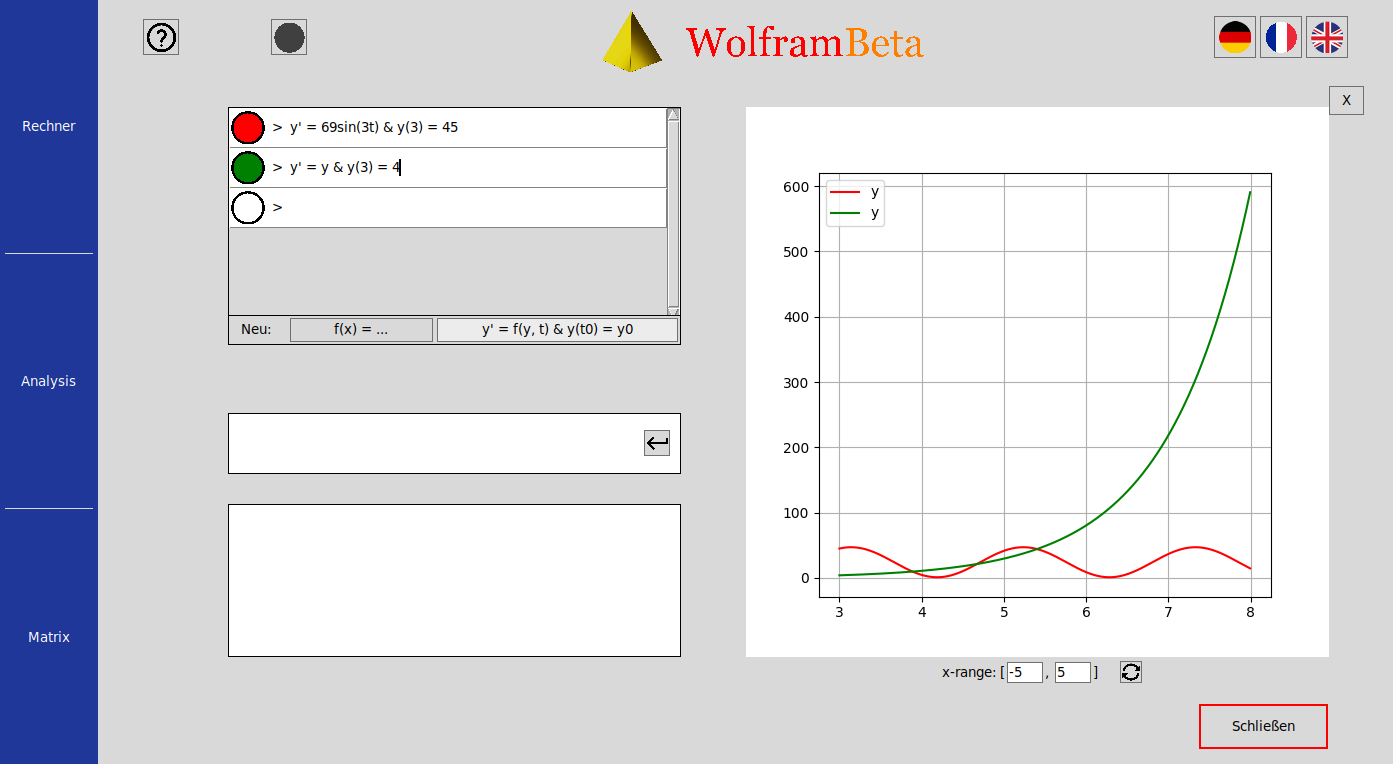
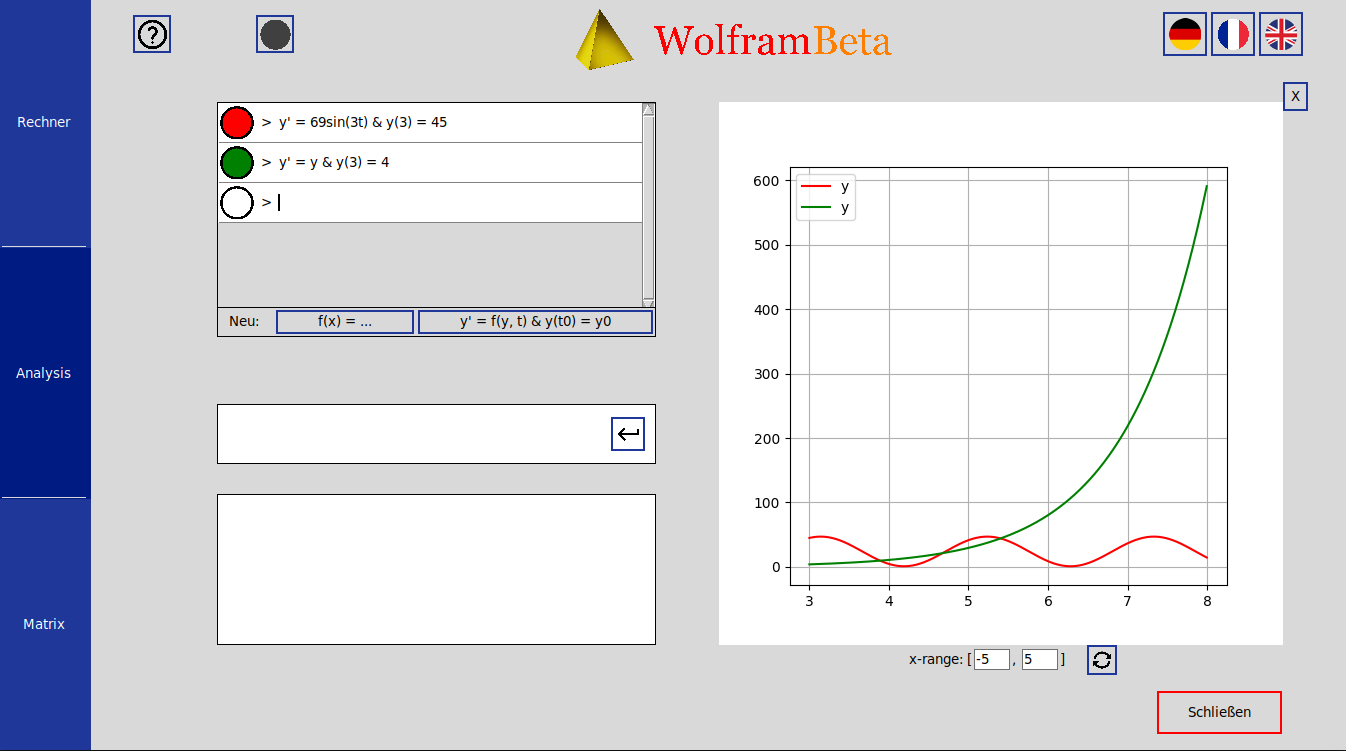
pb im parser, neue bilder mit design

diff --git a/website/Algebra_de.html b/website/Algebra_de.html
@@ -74,7 +74,7 @@
             </tr>
          </table>
 
-         <img src="screens/rechner_funktionen.png" style="display:block;margin:40px auto;width:60%;height:auto;" alt="" />
+         <img src="screens/alg_func.png" style="display:block;margin:40px auto;width:60%;height:auto;" alt="" />
 
          <h3>Differentialoperatoren:</h3>
 
@@ -102,7 +102,7 @@
             </tr>
          </table>
 
-         <img src="screens/rechner_int.png" style="display:block;margin:40px auto;width:60%;height:auto;" alt="" />
+         <img src="screens/alg_int.png" style="display:block;margin:40px auto;width:60%;height:auto;" alt="" />
 
 
          <h3>Zahlentheorie:</h3>
@@ -154,7 +154,7 @@
                <td>partition(23)</td>
          </table>
 
-         <img src="screens/rechner_zt.png" style="display:block;margin:40px auto;width:60%;height:auto;" alt="" />
+         <img src="screens/alg_zt.png" style="display:block;margin:40px auto;width:60%;height:auto;" alt="" />
 
 
          <h3>Gleichungen und Gleichheit</h3>
@@ -177,7 +177,7 @@
             </tr>
          </table>
 
-         <img src="screens/rechner_gleichung.png" style="display:block;margin:40px auto;width:60%;height:auto;" alt="" />
+         <img src="screens/alg_gleich.png" style="display:block;margin:40px auto;width:60%;height:auto;" alt="" />
 
 
       </div>

diff --git a/website/Algebra_fr.html b/website/Algebra_fr.html
@@ -75,7 +75,7 @@
             </tr>
          </table>
 
-         <img src="screens/rechner_funktionen.png" style="display:block;margin:40px auto;width:60%;height:auto;" alt="" />
+         <img src="screens/alg_func.png" style="display:block;margin:40px auto;width:60%;height:auto;" alt="" />
 
          <h3>Opérateurs d'analyse:</h3>
 
@@ -103,7 +103,7 @@
             </tr>
          </table>
 
-         <img src="screens/rechner_int.png" style="display:block;margin:40px auto;width:60%;height:auto;" alt="" />
+         <img src="screens/alg_int.png" style="display:block;margin:40px auto;width:60%;height:auto;" alt="" />
 
          <h3>Arithmétique:</h3>
 
@@ -155,7 +155,7 @@
             </tr>
          </table>
 
-         <img src="screens/rechner_zt.png" style="display:block;margin:40px auto;width:60%;height:auto;" alt="" />
+         <img src="screens/alg_zt.png" style="display:block;margin:40px auto;width:60%;height:auto;" alt="" />
 
 
          <h3>Eqations et égalités</h3>
@@ -178,7 +178,7 @@
             </tr>
          </table>
 
-         <img src="screens/rechner_gleichung.png" style="display:block;margin:40px auto;width:60%;height:auto;" alt="" />
+         <img src="screens/alg_gleich.png" style="display:block;margin:40px auto;width:60%;height:auto;" alt="" />
 
       </div>
    </body>

diff --git a/website/Analysis_fr.html b/website/Analysis_fr.html
@@ -84,7 +84,7 @@
             </tr>
          </table>
 
-         <img src="screens/ana_funcs.png" style="display:block;margin:40px auto;width:60%;height:auto;" alt="" />
+         <img src="screens/ana_func.png" style="display:block;margin:40px auto;width:60%;height:auto;" alt="" />
 
          <p>
 			Sous les lignes de saisie, on peut effectuer des calculs spécifiques à la fonction. On peut y afficher, entre autres, les
@@ -150,7 +150,7 @@
             Les points donnés et le polynôme trouvé sont alors affichés sur le graphique.
          </p>
 
-         <img src="screens/ana_neville.png" style="display:block;margin:40px auto;width:60%;height:auto;" alt="" />
+         <img src="screens/ana_nev.png" style="display:block;margin:40px auto;width:60%;height:auto;" alt="" />
 
       </div>
    </body>

diff --git a/website/Analysis_de.html b/website/Analysis_de.html
@@ -82,7 +82,7 @@
             </tr>
          </table>
 
-         <img src="screens/ana_funcs.png" style="display:block;margin:40px auto;width:60%;height:auto;" alt="" />
+         <img src="screens/ana_func.png" style="display:block;margin:40px auto;width:60%;height:auto;" alt="" />
 
          <p>
             Unter den Eingabezeilen kann man Funktions-spezifische Berechnungen tätigen. Dort kann man unter anderem die
@@ -152,7 +152,7 @@
             Es werden die gegebenen Punkte und das gefundene Polynom im Graphen angezeigt.
          </p>
 
-         <img src="screens/ana_neville.png" style="display:block;margin:40px auto;width:60%;height:auto;" alt="" />
+         <img src="screens/ana_nev.png" style="display:block;margin:40px auto;width:60%;height:auto;" alt="" />
 
       </div>
    </body>

diff --git a/main/FunctionClass.py b/main/FunctionClass.py
@@ -202,9 +202,6 @@ def parse(f: str, simp=False) -> list or str:
     if len(f) >= 3 and "C" in f and isfloat(f[:f.index("C")]) and isfloat(f[f.index("C") + 1:]):
         # 2C3 -> C(2,3)
         return parse(f"C({f[:f.index('C')]},{f[f.index('C') + 1:]})", simp)
-    if f in ALPHABET and len(f) == 1:
-        # varible/konstante
-        return f
     if f in DEFINED_FUNCTIONS and simp:
         # Funktionsname einer im AnalysisFrame von WolframBeta definierten Funktion wird durch ihren term ersetzt
         return parse(DEFINED_FUNCTIONS[f], simp)
@@ -213,6 +210,9 @@ def parse(f: str, simp=False) -> list or str:
             n0 = f.index(matrix)
             n1 = n0 + len(matrix)
             f = f[:n0] + "(" + f[n0:n1] + ")" + f[n1:]
+    if f in ALPHABET and len(f) == 1:
+        # varible/konstante
+        return f
     if "@" in f:
         raise SyntaxError(f"Invalid character: '@'")
     
@@ -235,7 +235,7 @@ def parse(f: str, simp=False) -> list or str:
             return diff(parse(innerargs[0], simp), var)
         else:
             return ["diff", parse(innerargs[0]), var]
-        
+    
     # höhere approximative Ableitung:
     if len(f) == 10 and f[:2] == "d^" and f[3:5] == "/d" and f[6] == "^" and f[8:10] == "@@":
         # höhere Ableitung: f = "d^n/dx^n(f)(x_0) (n'te ableitung von f(x) nach x in x_0)
@@ -249,11 +249,11 @@ def parse(f: str, simp=False) -> list or str:
             return str(der(lambda x: eval(innerargs[0]), var=f[5], n=int(n))(flint(x_0)))
         else:
             return ["diff", parse(innerargs[0]), f[5], n, x_0]
-        
+    
     # höhere exakte ableitung
     if len(f) == 9 and f[:2] == "d^" and f[3:5] == "/d" and f[6] == "^" and f[8] == "@":
         # höhere Ableitung: f = "d^n/dx^n(f) (n'te ableitung von f(x) nach x)
-    
+        
         if (n := f[2]) != f[7] or not isfloat(f[2]) or not isfloat(f[7]):
             raise ValueError("invalid n while taking the n'th derivative")
         if simp:
@@ -410,7 +410,7 @@ def parse(f: str, simp=False) -> list or str:
 
 def write(f: list) -> str:
     """Schreibt den Syntaxtree wieder als lesbaren Ausdruck, und vereinfacht ihn ,wenn möglich"""
-    print(f"write: {f}")
+    
     if type(f) != list:
         return str(f)
     

diff --git a/main/WolframBeta.py b/main/WolframBeta.py
@@ -974,9 +974,10 @@ class AnalysisFrame(Frame):
                     lp_simp = round(flint(lp_simp), 10)
                 if isfloat(rp_simp):
                     rp_simp = round(flint(rp_simp), 10)
-                
+                print(f"{DEFINED_FUNCTIONS = }, {'f' in locals()}, {lp_simp =}, {rp_simp = }")
                 if not isfloat(eq := write(parse(f"{lp_simp}-({rp_simp})", True))):
                     # gleichung lösen:
+                    print(f"{eq = }")
                     loesungen = nullstellen(lambda x: eval(eq))
                     output_latex = r"x \in \{" + str([flint(round(ans, 5)) for ans in loesungen])[1:-1] + r"\}"
                 
